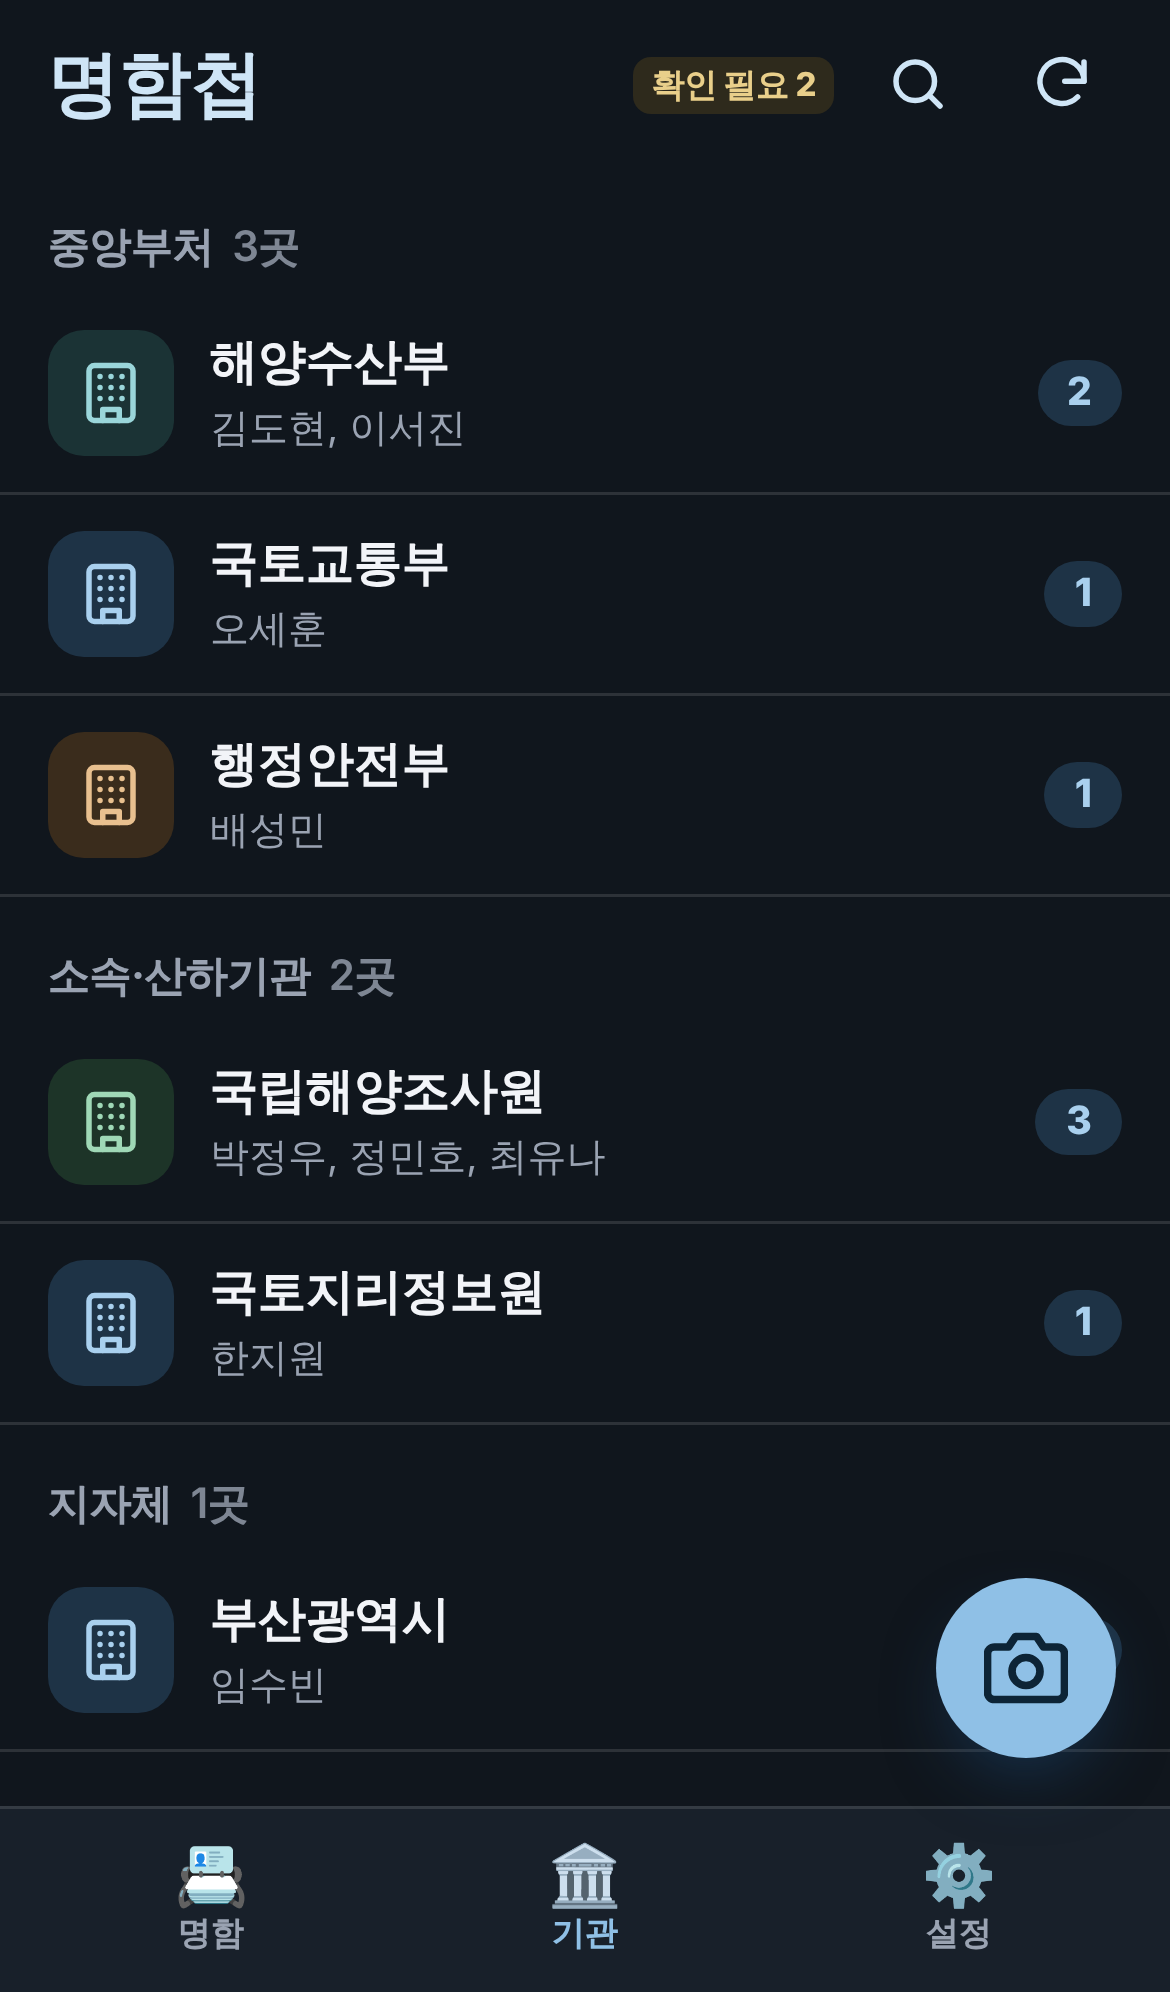
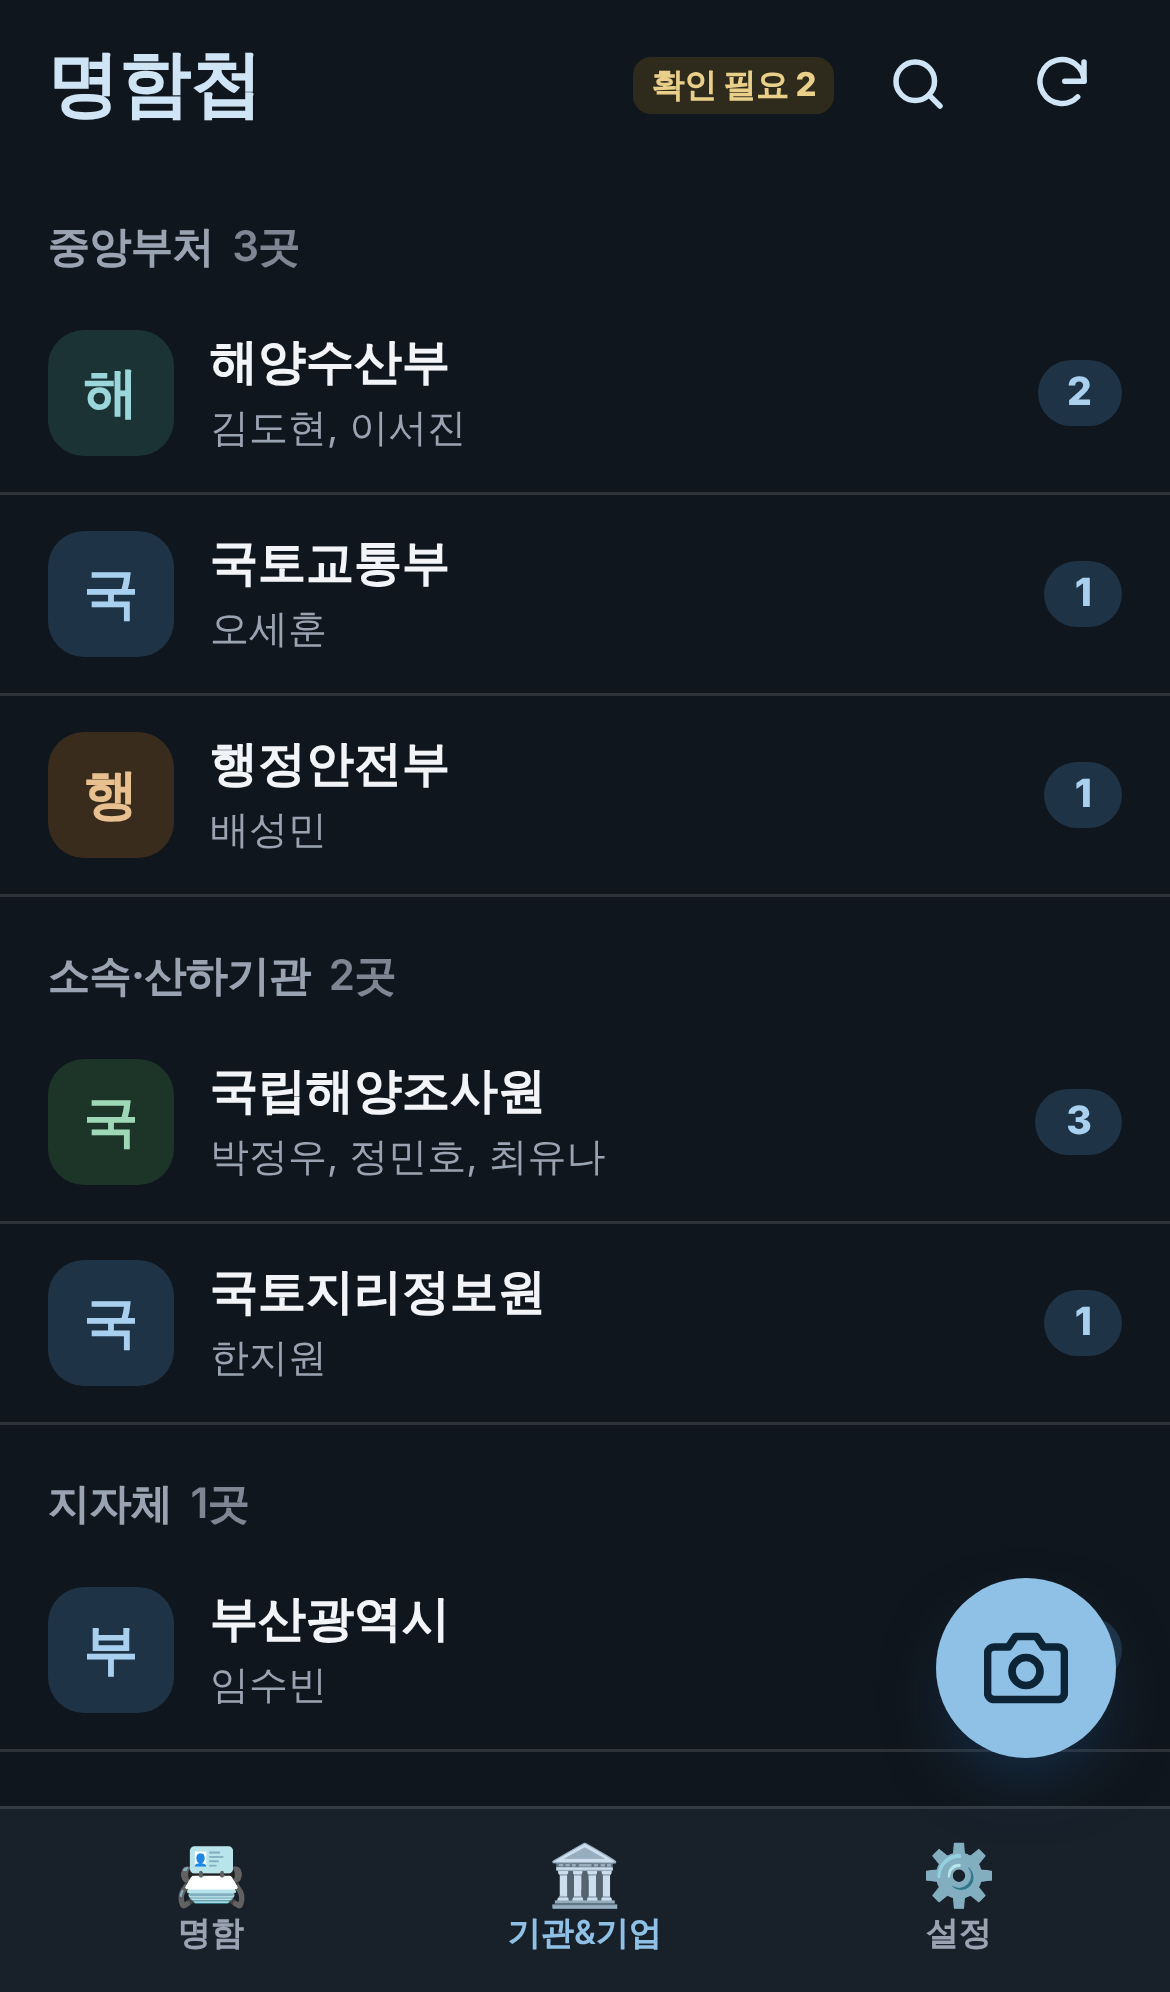
기관 탭을 '기관&기업'으로, 기관마다 홈페이지 로고(CI·MI) 보여 주기
Claude-Session: https://claude.ai/code/session_01NzWFDYJaTL9eNJdZA6xHvT

diff --git a/index.html b/index.html
@@ -208,6 +208,7 @@ button{touch-action:manipulation}
 
 /* 기관 탭 */
 .org{display:flex;align-items:center;gap:12px;width:100%;border:0;border-bottom:1px solid var(--line);background:none;color:inherit;font:inherit;text-align:left;padding:12px max(16px,var(--sar)) 12px max(16px,var(--sal))}
+.org .ic.lg{font-weight:800;font-size:18px;overflow:hidden}.org .ic.lg.has{background:#fff;border:1px solid var(--line)}.org .ic.lg img{width:100%;height:100%;object-fit:contain;padding:6px;box-sizing:border-box}
 .org .ic,.ak-empty .ic{flex:none;width:42px;height:42px;border-radius:12px;display:grid;place-items:center}
 .org .tx{flex:1;min-width:0}.org .nm{font-weight:800;font-size:16px;word-break:keep-all}
 .org .sub{font-size:13px;color:var(--muted);margin-top:2px;white-space:nowrap;overflow:hidden;text-overflow:ellipsis}
@@ -314,7 +315,7 @@ button{touch-action:manipulation}
 <button class="fab" type="button" data-shoot aria-label="명함 찍기"><svg class="ak-ic" viewBox="0 0 24 24"><path d="M23 19a2 2 0 0 1-2 2H3a2 2 0 0 1-2-2V8a2 2 0 0 1 2-2h4l2-3h6l2 3h4a2 2 0 0 1 2 2z"/><circle cx="12" cy="13" r="4"/></svg></button>
 <nav class="ak-tabs" aria-label="메뉴">
   <button type="button" data-tab="list"><span class="i">📇</span>명함</button>
-  <button type="button" data-tab="org"><span class="i">🏛</span>기관</button>
+  <button type="button" data-tab="org"><span class="i">🏛</span>기관&amp;기업</button>
   <button type="button" data-tab="set"><span class="i">⚙</span>설정</button>
 </nav>
 
@@ -627,7 +628,7 @@ const AppKit = (() => {
 })();
 </script>
 <script>
-const BUILD = '1795153772';            // version.txt 와 같은 숫자 — scripts/bump_version.py 가 함께 바꾼다
+const BUILD = '1795155878';            // version.txt 와 같은 숫자 — scripts/bump_version.py 가 함께 바꾼다
 AppKit.fixViewport({ gap: false });   // 홈 화면 앱에서 탭바가 아래로 잘려서 보정을 끈다(2026-11-20 확인)
 AppKit.autoUpdate(BUILD);
 AppKit.showErrors(BUILD);
@@ -826,6 +827,59 @@ function emptyHome() {
     ${S.srv ? '' : '<button type="button" class="btn sub" data-goset>서버 연결하기</button>'}<button type="button" class="btn sub" data-demo="on">예시로 둘러보기</button></div></div>`;
 }
 
+/* ── 기관·기업 로고(CI·MI) ── 기관 홈페이지의 대표 아이콘을 가져온다.
+   홈페이지 주소: ① 그 기관 명함들의 회사 메일 주소(@korea.kr 같은 공용 메일 제외) ② 홈페이지 칸 ③ 아래 정부 기관 표.
+   못 찾으면 기관 이름 첫 글자 칸. 찾은 결과는 이 휴대폰에 기억해 두고 다시 받지 않는다 */
+const LOGO = (() => {
+  const GOV = [   // 공용 메일(korea.kr)을 쓰는 곳·메일이 없는 회사 — 이름에 들어 있으면 그 홈페이지
+    ['국립해양조사원', 'khoa.go.kr'], ['해양조사원', 'khoa.go.kr'], ['국토지리정보원', 'ngii.go.kr'], ['국립수산과학원', 'nifs.go.kr'], ['국립재난안전연구원', 'ndmi.go.kr'],
+    ['해양경찰', 'kcg.go.kr'], ['해양경비안전', 'kcg.go.kr'], ['지방해양수산청', 'mof.go.kr'], ['해양수산부', 'mof.go.kr'], ['해양공간정책과', 'mof.go.kr'], ['해양수산과학기술정책과', 'mof.go.kr'],
+    ['국토교통부', 'molit.go.kr'], ['행정안전부', 'mois.go.kr'], ['국민안전처', 'mois.go.kr'], ['과학기술정보통신부', 'msit.go.kr'], ['기획재정부', 'moef.go.kr'],
+    ['산업통상자원부', 'motie.go.kr'], ['환경부', 'me.go.kr'], ['국방부', 'mnd.go.kr'], ['산림청', 'forest.go.kr'], ['기상청', 'kma.go.kr'], ['조달청', 'pps.go.kr'], ['통계청', 'kostat.go.kr'],
+    ['부산광역시', 'busan.go.kr'], ['서울특별시', 'seoul.go.kr'], ['세종특별자치시', 'sejong.go.kr'], ['전라남도', 'jeonnam.go.kr'], ['경상남도', 'gyeongnam.go.kr'], ['제주특별자치도', 'jeju.go.kr'],
+    ['한국해양과학기술원', 'kiost.ac.kr'], ['해양환경공단', 'koem.or.kr'], ['한국어촌어항공단', 'fipa.or.kr'], ['극지연구소', 'kopri.re.kr'], ['해양수산과학기술진흥원', 'kimst.re.kr'],
+    ['한국지능정보사회진흥원', 'nia.or.kr'], ['한국국토정보공사', 'lx.or.kr'], ['한국공간정보산업협회', 'kasm.or.kr'], ['선박해양플랜트연구소', 'kriso.re.kr'],
+    ['전남대학교', 'jnu.ac.kr'], ['광주대학교', 'gwangju.ac.kr'], ['전주대학교', 'jj.ac.kr'], ['부경대학교', 'pknu.ac.kr'], ['한국해양대학교', 'kmou.ac.kr'], ['올포랜드', 'allforland.com'],
+    ['중앙항업', 'caas.co.kr'], ['신한항업', 'shas.co.kr'], ['삼영이엔씨', 'samyungenc.com'], ['코오롱인더스트리', 'kolonindustries.com'], ['한화호텔', 'hanwhahotelsnresorts.com'],
+  ].sort((a, b) => b[0].length - a[0].length);
+  const SHARED = /^(korea\.kr|gmail\.com|naver\.com|daum\.net|hanmail\.net|nate\.com|kakao\.com|outlook\.com|hotmail\.com|icloud\.com|yahoo\.(com|co\.kr))$/i;
+  const base = d => d.toLowerCase().replace(/^(www|mail|m)\./, '');
+  function domain(org, cards) {
+    const n = {};
+    cards.forEach(c => { const d = (c.email || '').split('@')[1]; if (d && !SHARED.test(d.trim())) { const k = base(d.trim()); n[k] = (n[k] || 0) + 1; } });
+    const best = Object.entries(n).sort((a, b) => b[1] - a[1])[0]; if (best) return best[0];
+    const w = cards.map(c => c.web).find(Boolean); if (w) { try { return base(new URL(/^https?:/.test(w) ? w : 'https://' + w).hostname); } catch (e) {} }
+    const k = org.replace(/\s/g, ''); return (GOV.find(([name]) => k.includes(name)) || [])[1] || '';
+  }
+  const initial = o => (o.replace(/\(.*?\)|㈜|주식회사|\s/g, '') || o || '?').slice(0, 1).toUpperCase();
+  const tile = (o, cards) => { const d = domain(o, cards || []); return `<div class="ic lg c${hue(o)}"${d ? ` data-logo="${esc(d)}"` : ''}><b>${esc(initial(o))}</b></div>`; };
+  const M = LS.get('logos', {});   // 홈페이지 → 그림 주소('' 은 없음)
+  const SRC = d => [`https://www.google.com/s2/favicons?domain=${encodeURIComponent(d)}&sz=128`, `https://icons.duckduckgo.com/ip3/${encodeURIComponent(d)}.ico`];
+  const show = (el, url) => { el.classList.add('has'); el.innerHTML = `<img src="${esc(url)}" alt="" referrerpolicy="no-referrer">`; };
+  function find(d) {
+    if (d in M) return Promise.resolve(M[d]);
+    const list = SRC(d);
+    return new Promise(ok => {
+      const next = () => {
+        const u = list.shift(); if (!u) { M[d] = ''; LS.set('logos', M); return ok(''); }
+        const im = new Image(); im.referrerPolicy = 'no-referrer';
+        im.onload = () => { if (im.naturalWidth > 16 || !list.length && im.naturalWidth >= 16) { M[d] = u; LS.set('logos', M); ok(u); } else next(); };   // 구글이 못 찾으면 16px 지구본을 준다
+        im.onerror = next; im.src = u;
+      };
+      next();
+    });
+  }
+  /* 화면에 보이는 칸부터 하나씩(한꺼번에 수백 개를 부르지 않게) */
+  let io;
+  function load(root) {
+    io?.disconnect();
+    io = new IntersectionObserver(es => es.forEach(e => { if (!e.isIntersecting) return; io.unobserve(e.target); const el = e.target, d = el.dataset.logo;
+      find(d).then(u => { if (u && el.isConnected) show(el, u); }); }), { rootMargin: '200px' });
+    root.querySelectorAll('.ic.lg[data-logo]').forEach(el => { const d = el.dataset.logo; if (M[d]) show(el, M[d]); else if (!(d in M)) io.observe(el); });
+  }
+  return { tile, load, domain };
+})();
+
 const tabs = AppKit.tabs({
   ids: ['list', 'org', 'set'], remember: 'card-book.tab',
   render(id) {
@@ -841,10 +895,11 @@ const tabs = AppKit.tabs({
       drawList();
     }
     if (id === 'org') {
-      const g = {}; list().forEach(c => { const k = c.org || '기관 없음'; (g[k] ||= { n: 0, cat: c.cat || '기타', people: [] }).n++; g[k].people.push(c.name); });
+      const g = {}; list().forEach(c => { const k = c.org || '기관 없음'; (g[k] ||= { n: 0, cat: c.cat || '기타', people: [], cards: [] }).n++; g[k].people.push(c.name); g[k].cards.push(c); });
       const cats = CATS.map(cat => [cat, Object.entries(g).filter(([, v]) => v.cat === cat).sort((a, b) => b[1].n - a[1].n || a[0].localeCompare(b[0], 'ko'))]).filter(x => x[1].length);
       sc.innerHTML = !cats.length ? emptyHome() : cats.map(([cat, orgs]) => `<div class="gh">${cat}<span>${orgs.length}곳</span></div>` +
-        orgs.map(([o, v]) => `<button type="button" class="org" data-goorg="${esc(o)}"><div class="ic c${hue(o)}">${IC.bld}</div><div class="tx"><div class="nm">${brk(o)}</div><div class="sub">${esc(v.people.slice(0, 4).join(', '))}${v.people.length > 4 ? ' 외' : ''}</div></div><span class="n">${v.n}</span></button>`).join('')).join('') + '<div style="height:90px"></div>';
+        orgs.map(([o, v]) => `<button type="button" class="org" data-goorg="${esc(o)}">${LOGO.tile(o, v.cards)}<div class="tx"><div class="nm">${brk(o)}</div><div class="sub">${esc(v.people.slice(0, 4).join(', '))}${v.people.length > 4 ? ' 외' : ''}</div></div><span class="n">${v.n}</span></button>`).join('')).join('') + '<div style="height:90px"></div>';
+      LOGO.load(sc);
     }
     if (id === 'set') {
       const srv = S.srv;
@@ -986,6 +1041,7 @@ async function openForm(id, pre = {}) {
       <div class="two">${f('mobile', '휴대폰', 'tel')}${f('tel', '사무실', 'tel')}</div>
       ${f('email', '이메일', 'email', 'autocapitalize="off"')}
       ${f('addr', '주소')}
+      ${f('web', '홈페이지 (로고를 가져와요)', 'text', 'inputmode="url" autocapitalize="off" placeholder="www.회사.co.kr"')}
       <div class="two">${f('fax', '팩스', 'tel')}${f('place', '만난 곳')}</div>
       <label>메모<textarea name="memo">${esc(c.memo || '')}</textarea></label>
       <button type="submit" class="btn">저장</button>

diff --git a/sw.js b/sw.js
@@ -1,5 +1,5 @@
 // 서비스 워커 — 네트워크 우선, 실패하면 캐시 (오프라인에서도 앱이 열리게). 외부 API 는 건드리지 않는다.
-const CACHE = 'card-book-1795153772';   // scripts/bump_version.py 가 숫자를 바꾼다
+const CACHE = 'card-book-1795155878';   // scripts/bump_version.py 가 숫자를 바꾼다
 const SHELL = ['./', 'index.html', 'manifest.webmanifest', 'icon-192-v1.png', 'icon-180-v1.png'];
 
 self.addEventListener('install', e => {

diff --git a/README.md b/README.md
@@ -38,6 +38,11 @@
 제목 줄의 칸 이름(이름·회사·부서·직책·휴대폰·전화·팩스·이메일·주소·메모·그룹·등록일)으로 칸을 찾고, 모르는 칸은 메모에 넣어요. 이름+휴대폰(없으면 이메일·기관)이 같은 명함은 건너뛰어요. 사진은 엑셀에 없어서 글자만 들어와요.
 200장씩 한 번에 시트에 올려요(서버 `bulk`). 서버 코드가 예전 것이면 한 장씩 올려요.
 
+## 기관&기업 로고
+
+'기관&기업' 탭에서 기관마다 홈페이지 대표 아이콘(CI·MI)을 보여 줘요. 홈페이지는 ① 그 기관 명함의 회사 메일 주소(@korea.kr 같은 공용 메일 제외) ② 명함의 홈페이지 칸 ③ 앱에 넣어 둔 정부 기관·주요 회사 표 순서로 찾아요.
+못 찾으면 기관 이름 첫 글자 칸이 나와요. 명함 '고치기'에서 홈페이지 칸을 채우면 그 로고가 나와요.
+
 ## 카카오 지도
 
 명함을 열면 주소 아래에 작은 지도가 나와요. 누르면 카카오맵이 열리고, '길찾기'도 있어요.
